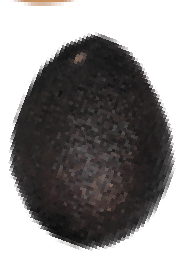
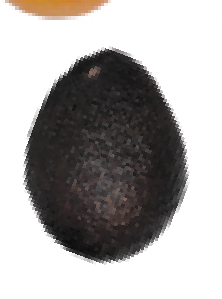
Las frutas van en circulo, ya no se ven mordisqueadas
Las fotos traen fondo blanco CUADRADO; dentro de un recuadro con esquinas
redondeadas se les cortaban las orillas. En circulo, con aire alrededor, la
fruta queda completa y centrada. Los recortes se rehicieron con margen.

diff --git a/components/catalogo/Planeador.tsx b/components/catalogo/Planeador.tsx
@@ -423,13 +423,15 @@ export function Planeador() {
                 }
               >
                 {f.foto ? (
-                  // Fondo claro: las fotos vienen recortadas en blanco.
-                  <span className="grid h-14 w-14 place-items-center rounded-xl bg-white p-1">
+                  // Círculo blanco: las fotos traen fondo blanco CUADRADO, y en
+                  // un recuadro las esquinas se cortaban y la fruta se veía
+                  // mordisqueada. En círculo, con aire alrededor, queda limpia.
+                  <span className="grid h-16 w-16 place-items-center overflow-hidden rounded-full bg-white p-2.5">
                     {/* eslint-disable-next-line @next/next/no-img-element */}
                     <img src={f.foto} alt={f.nombre} className="h-full w-full" style={{ objectFit: "contain" }} />
                   </span>
                 ) : (
-                  <span className="grid h-14 w-14 place-items-center rounded-xl bg-bg-2 text-2xl">🍃</span>
+                  <span className="grid h-16 w-16 place-items-center rounded-full bg-bg-2 text-2xl">🍃</span>
                 )}
                 {f.nombre}
               </button>
